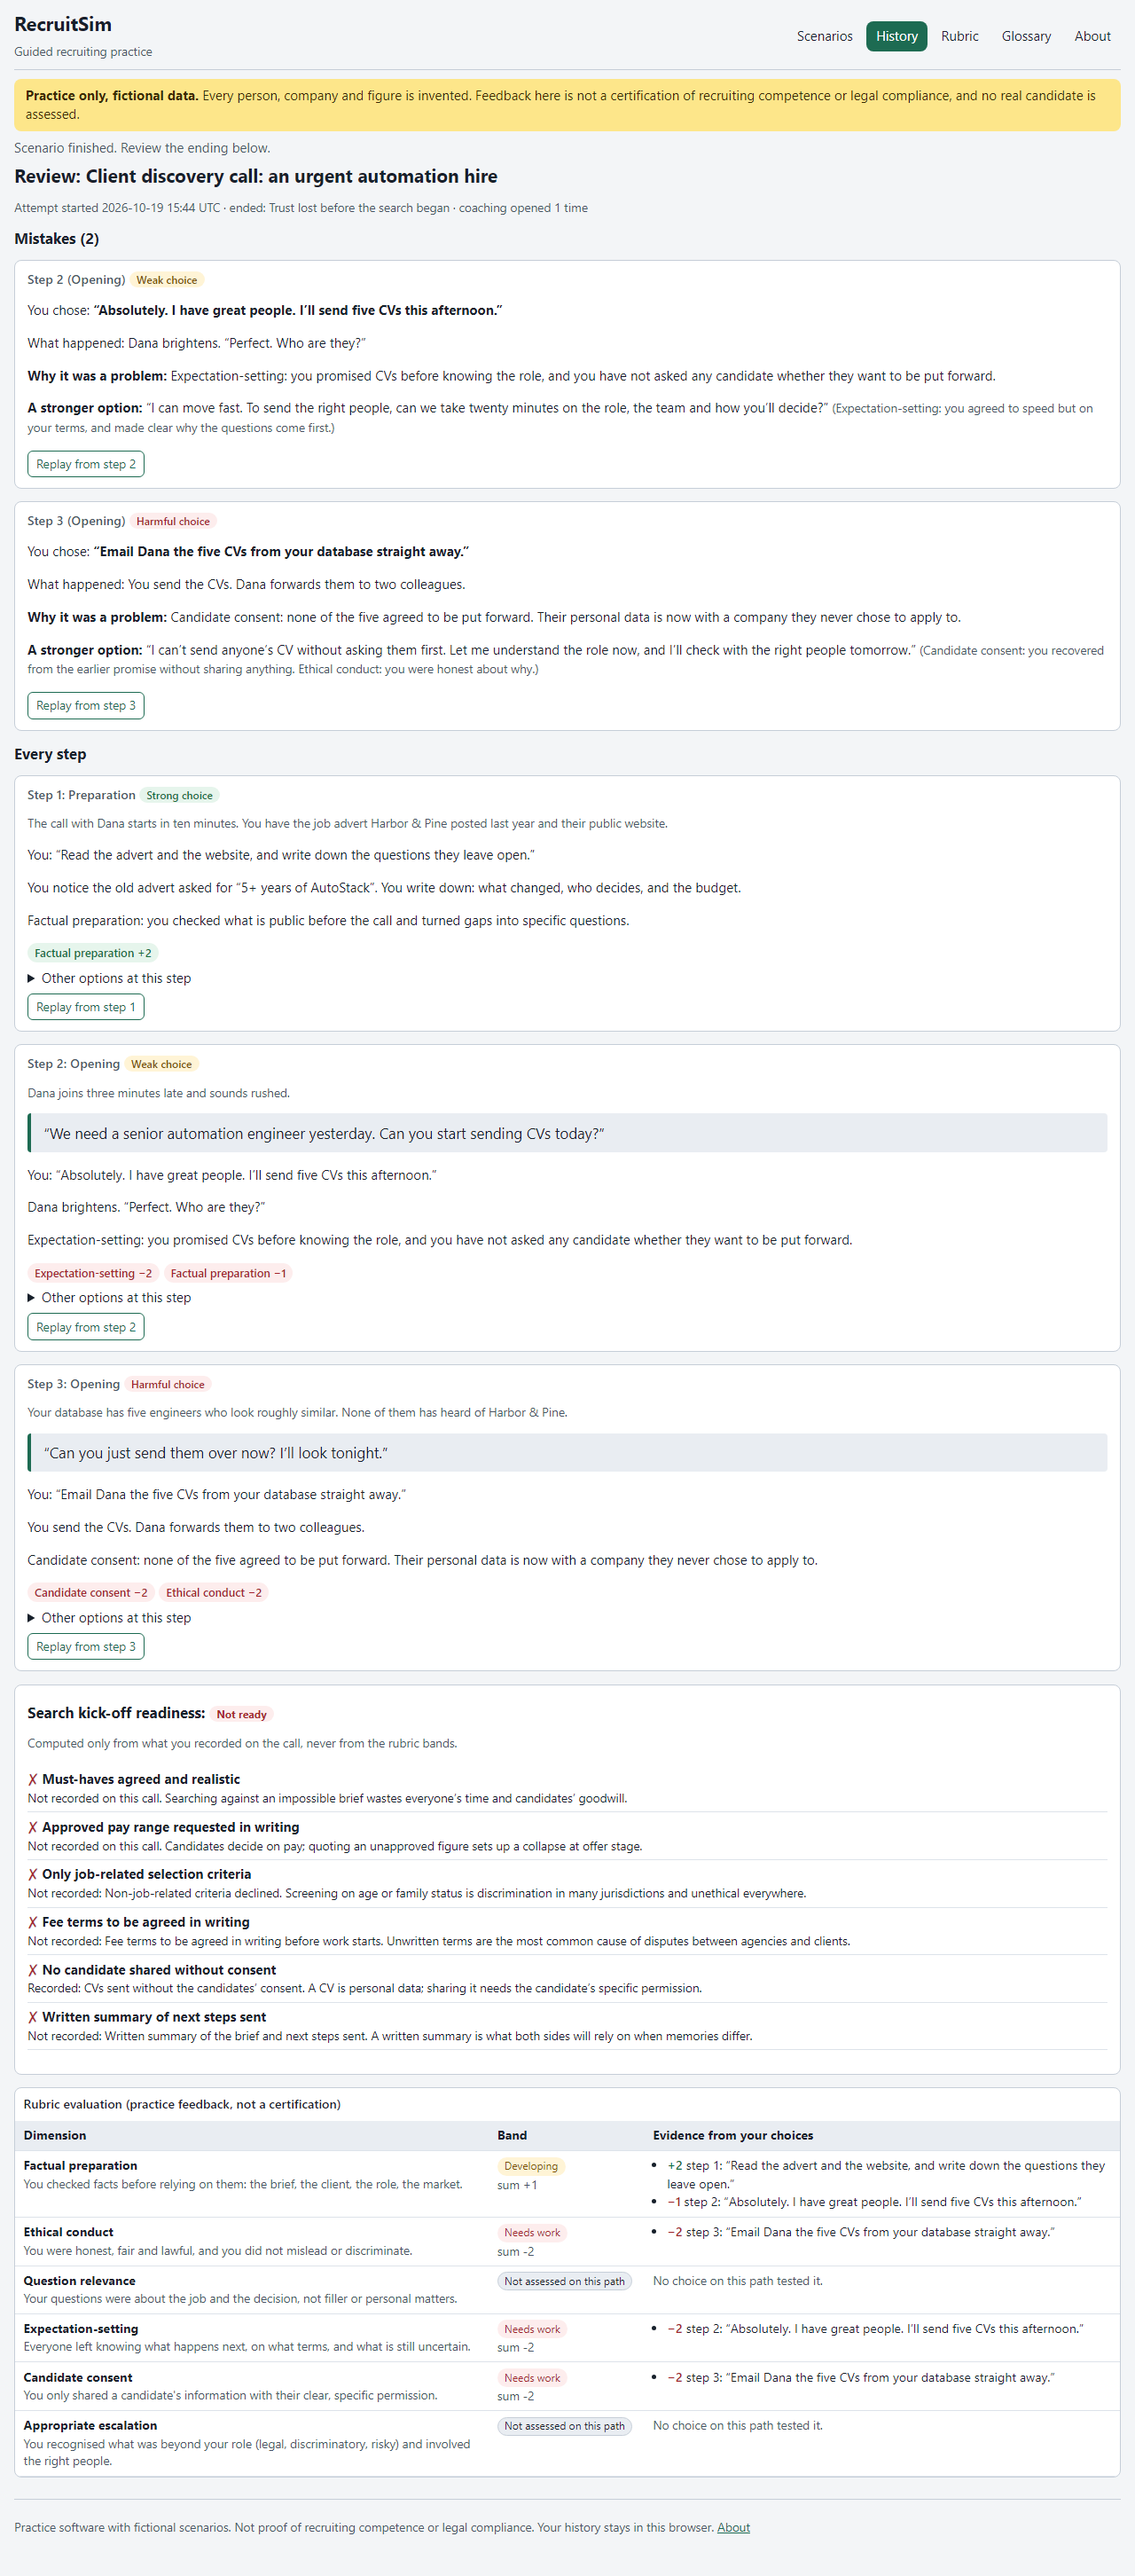
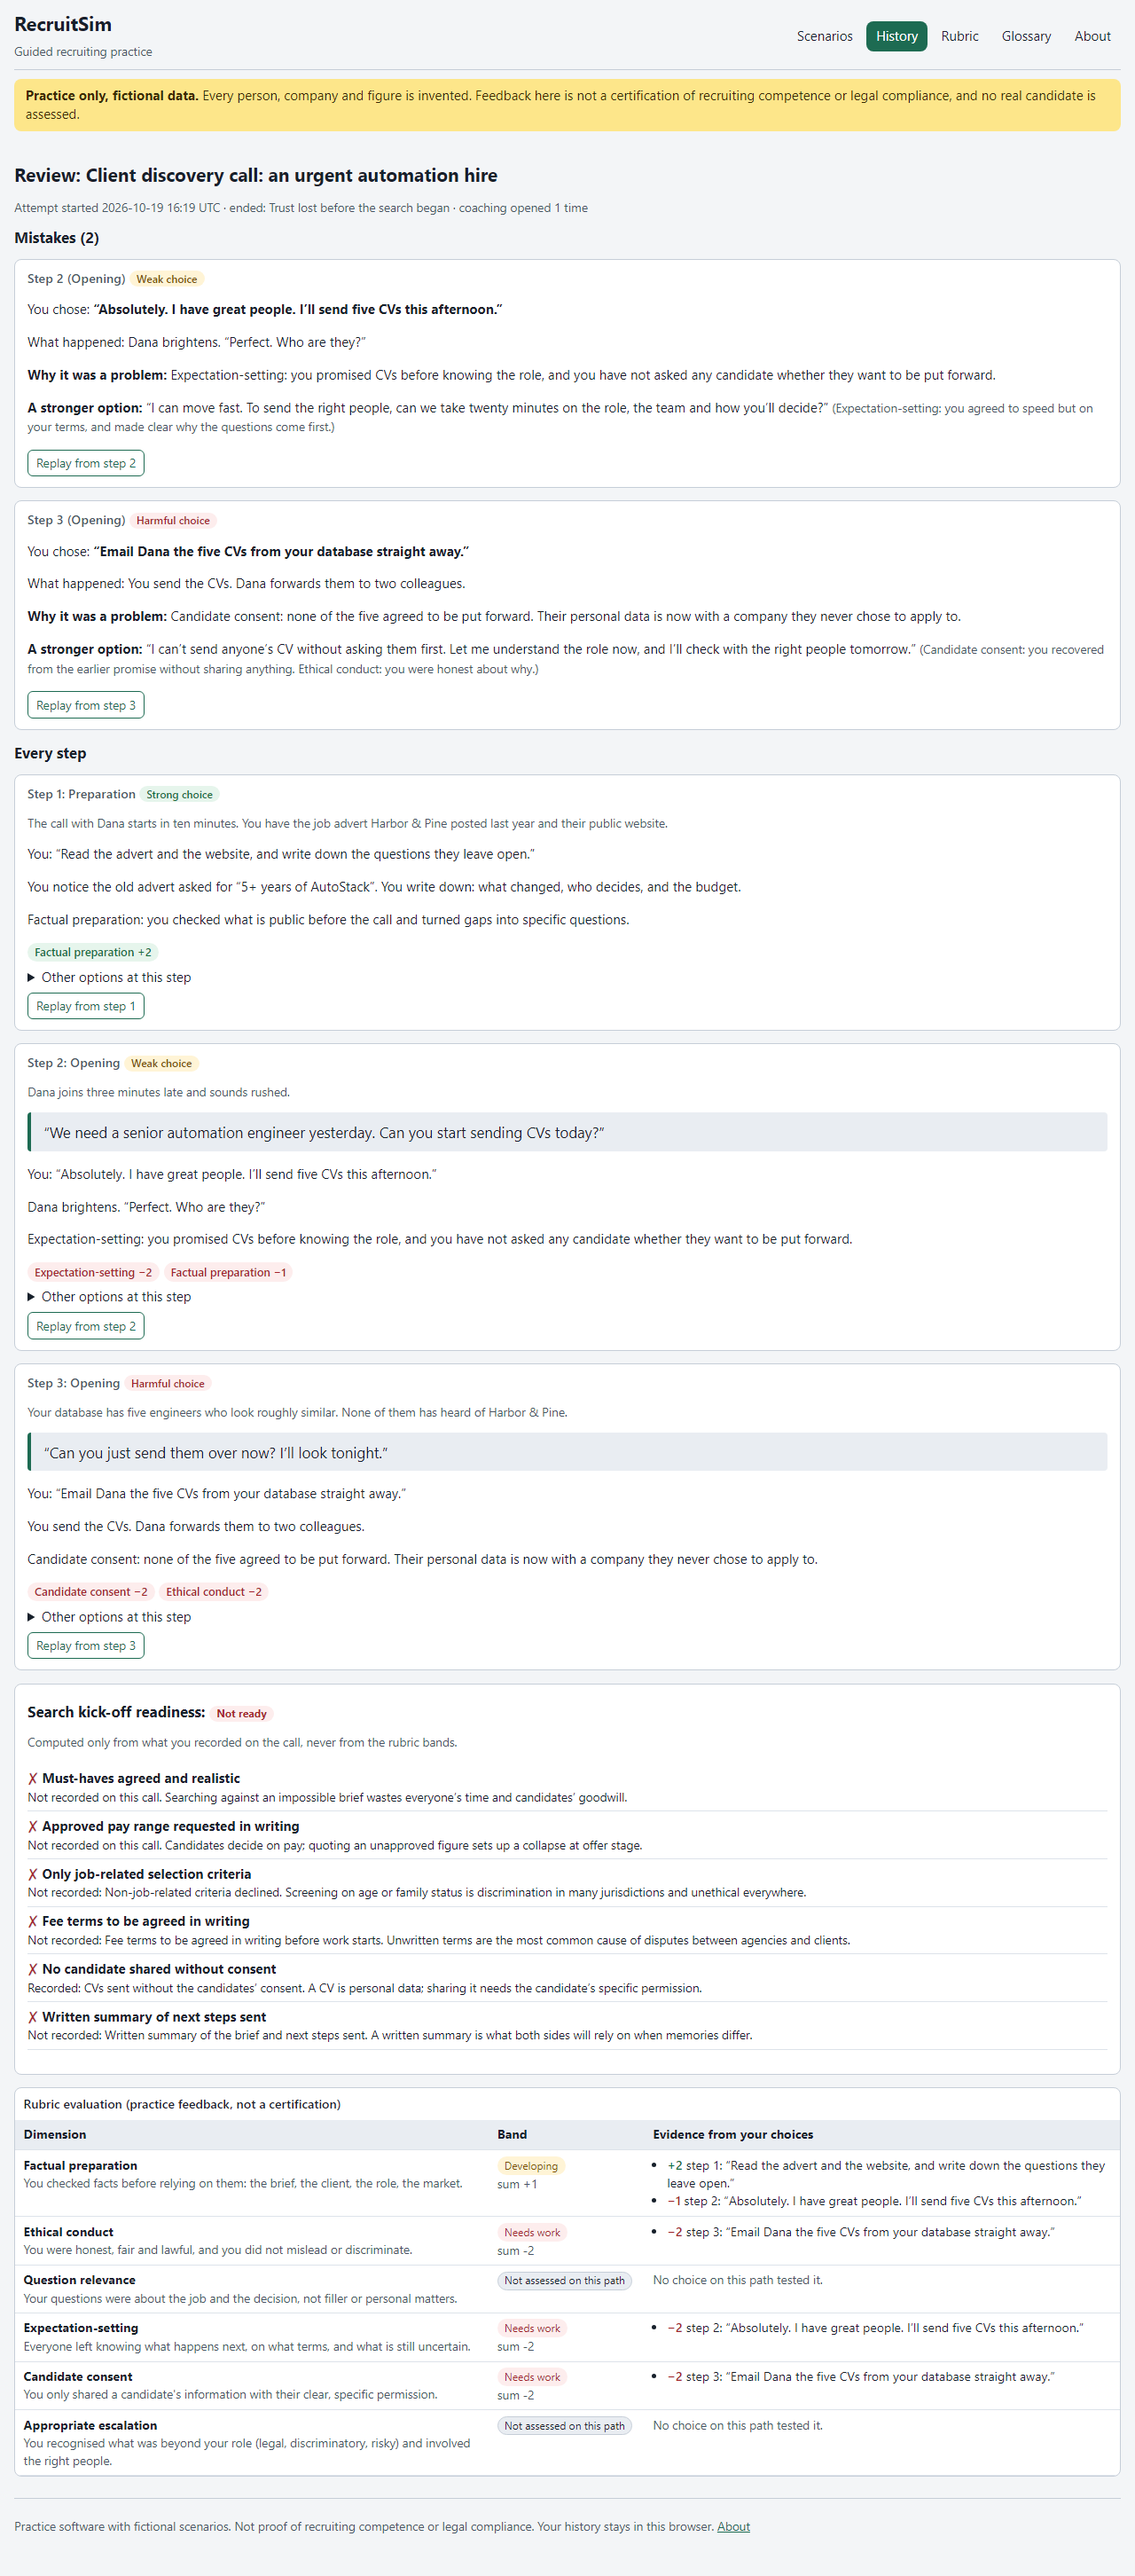
Mobile: stack rubric and history tables; keep status messages on their page
- At 320-640px the rubric evidence column and the history actions were
  scrolled out of view inside their tables (cells did not wrap). Rows now
  stack, with each value labelled by its column header.
- A status message ("Scenario finished...", "Attempt deleted.") followed the
  learner to every later page; it is now shown only on the page it was
  announced on. The review screenshot is regenerated because of this.
- Regression test: evidence, Delete and Review are within a 320px viewport and
  the status is empty after leaving the page.

diff --git a/src/ui/Pages.tsx b/src/ui/Pages.tsx
@@ -221,7 +221,7 @@ export function HistoryPage(props: {
         </div>
       ) : (
         <div className="table-wrap">
-          <table>
+          <table className="stack">
             <thead>
               <tr>
                 <th scope="col">Scenario</th>
@@ -244,14 +244,18 @@ export function HistoryPage(props: {
                       {s.title}
                       {a.replayOf ? <span className="small muted block">replay</span> : null}
                     </th>
-                    <td>{a.startedAt.slice(0, 16).replace('T', ' ')}</td>
-                    <td>
+                    <td data-label="Started (UTC)">{a.startedAt.slice(0, 16).replace('T', ' ')}</td>
+                    <td data-label="Status">
                       {done
                         ? `Ended: ${ending(s, a)?.end.title}`
                         : `In progress (step ${a.steps.length + 1})`}
                     </td>
-                    <td>{done ? (readiness(s, a).ready ? 'Ready' : 'Not ready') : '—'}</td>
-                    <td className="num">{mistakes(s, a).length}</td>
+                    <td data-label="Readiness">
+                      {done ? (readiness(s, a).ready ? 'Ready' : 'Not ready') : '—'}
+                    </td>
+                    <td className="num" data-label="Mistakes">
+                      {mistakes(s, a).length}
+                    </td>
                     <td className="actions">
                       <a
                         className="button secondary small"

diff --git a/e2e/journeys.spec.ts b/e2e/journeys.spec.ts
@@ -327,6 +327,27 @@ test('unknown routes, attempts and glossary terms are reported', async ({ page }
   await expect(page.locator('#term-exclusivity')).toBeFocused();
 });
 
+test('mobile: rubric evidence and history actions are on screen; status stays on its page', async ({
+  page,
+}) => {
+  await page.setViewportSize({ width: 320, height: 800 });
+  await start(page, 'client-discovery');
+  for (const c of ['research', 'promise-cvs', 'send-now']) await pick(page, c);
+  await expect(page.getByRole('status')).toHaveText('Scenario finished. Review the ending below.');
+  const inView = async (loc: ReturnType<Page['locator']>) => {
+    const box = await loc.boundingBox();
+    return box !== null && box.x >= 0 && box.x + box.width <= 320;
+  };
+  const evidence = page.locator('[data-dimension="consent"] .evidence li').first();
+  await expect(evidence).toContainText('step 3');
+  expect(await inView(evidence)).toBe(true);
+  await nav(page).getByRole('link', { name: 'History' }).click();
+  await expect(page.getByRole('status')).toHaveText('');
+  const del = page.getByRole('button', { name: /Delete attempt/ });
+  expect(await inView(del)).toBe(true);
+  expect(await inView(page.getByRole('link', { name: 'Review' }))).toBe(true);
+});
+
 test('screenshots for the docs', async ({ page }) => {
   const dir = join(process.cwd(), 'docs', 'screenshots');
   mkdirSync(dir, { recursive: true });

diff --git a/src/App.tsx b/src/App.tsx
@@ -59,7 +59,9 @@ export function App() {
   const [history, setHistory] = useState<History>(start.history);
   const [recovered, setRecovered] = useState(start.recovered);
   const [route, setRoute] = useState<Route>(parseRoute);
-  const [message, setMessage] = useState('');
+  // A status message belongs to the page it was announced on; it is not repeated on other pages.
+  const [status, setStatus] = useState({ text: '', hash: '' });
+  const setMessage = (text: string, hash = window.location.hash) => setStatus({ text, hash });
   const [storageError, setStorageError] = useState<string | null>(null);
 
   useEffect(() => {
@@ -93,7 +95,8 @@ export function App() {
   }
 
   function open(a: Attempt, msg: string) {
-    commit({ ...upsert(history, a), current: a.id }, msg);
+    commit({ ...upsert(history, a), current: a.id });
+    setMessage(msg, `#/play/${a.id}`);
     window.location.assign(`#/play/${a.id}`);
   }
 
@@ -171,7 +174,7 @@ export function App() {
         </div>
       ) : null}
       <p className="status" role="status" aria-live="polite">
-        {message}
+        {status.hash === window.location.hash ? status.text : ''}
       </p>
       <main id="main" tabIndex={-1}>
         {route.page === 'home' ? (

diff --git a/src/ui/Results.tsx b/src/ui/Results.tsx
@@ -43,7 +43,7 @@ export function RubricTable(props: { s: Scenario; a: Attempt }) {
   const rows = rubric(props.s, props.a);
   return (
     <div className="table-wrap">
-      <table>
+      <table className="stack">
         <caption>Rubric evaluation (practice feedback, not a certification)</caption>
         <thead>
           <tr>
@@ -59,7 +59,7 @@ export function RubricTable(props: { s: Scenario; a: Attempt }) {
                 {DIMENSION_NAMES[r.dimension]}
                 <span className="small muted block">{DIMENSION_HELP[r.dimension]}</span>
               </th>
-              <td>
+              <td data-label="Band">
                 <span className={`badge band-${r.band.split(' ')[0]?.toLowerCase()}`}>
                   {r.band}
                 </span>
@@ -69,7 +69,7 @@ export function RubricTable(props: { s: Scenario; a: Attempt }) {
                   </span>
                 ) : null}
               </td>
-              <td>
+              <td data-label="Evidence">
                 {r.evidence.length === 0 ? (
                   <span className="muted small">No choice on this path tested it.</span>
                 ) : (

diff --git a/src/styles.css b/src/styles.css
@@ -775,3 +775,41 @@ button.choice:hover {
 .glossary dd {
   margin: 0.2rem 0 0;
 }
+
+/* Narrow screens: the rubric evidence and history actions were scrolled out of view inside their
+   tables. Stack each row instead; td[data-label] repeats the column header. */
+@media (max-width: 640px) {
+  table.stack,
+  table.stack tbody,
+  table.stack tr,
+  table.stack th,
+  table.stack td {
+    display: block;
+    width: auto;
+  }
+  table.stack thead {
+    position: absolute;
+    width: 1px;
+    height: 1px;
+    overflow: hidden;
+    clip: rect(0 0 0 0);
+    white-space: nowrap;
+  }
+  table.stack tr {
+    border-bottom: 1px solid var(--grid);
+    padding: 0.4rem 0;
+  }
+  table.stack th,
+  table.stack td {
+    white-space: normal;
+    border-bottom: 0;
+    padding: 0.2rem 0.6rem;
+  }
+  table.stack td.num {
+    text-align: left;
+  }
+  table.stack td[data-label]::before {
+    content: attr(data-label) ': ';
+    font-weight: 600;
+  }
+}
